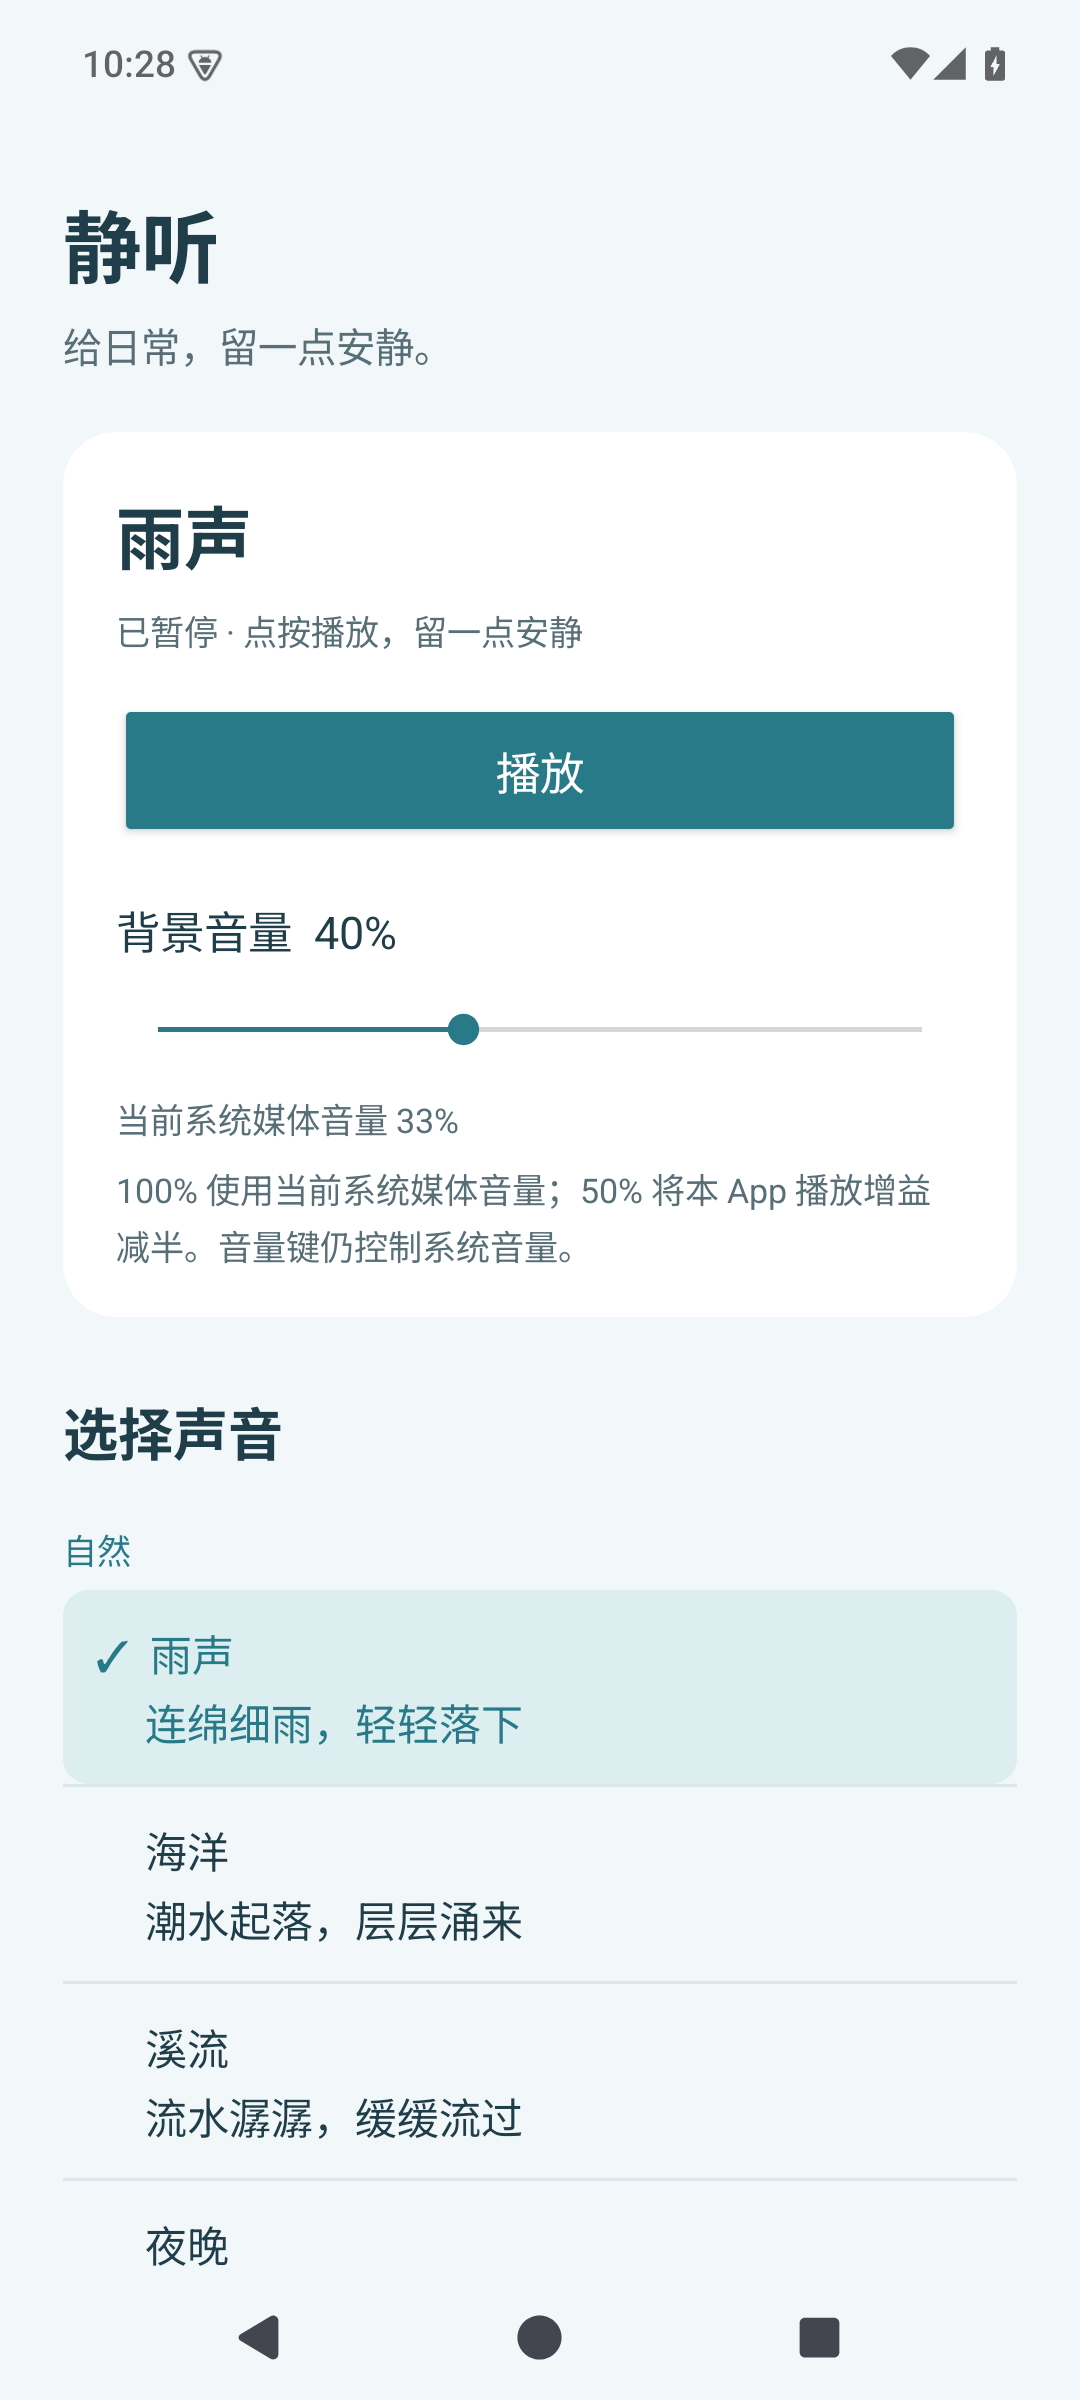
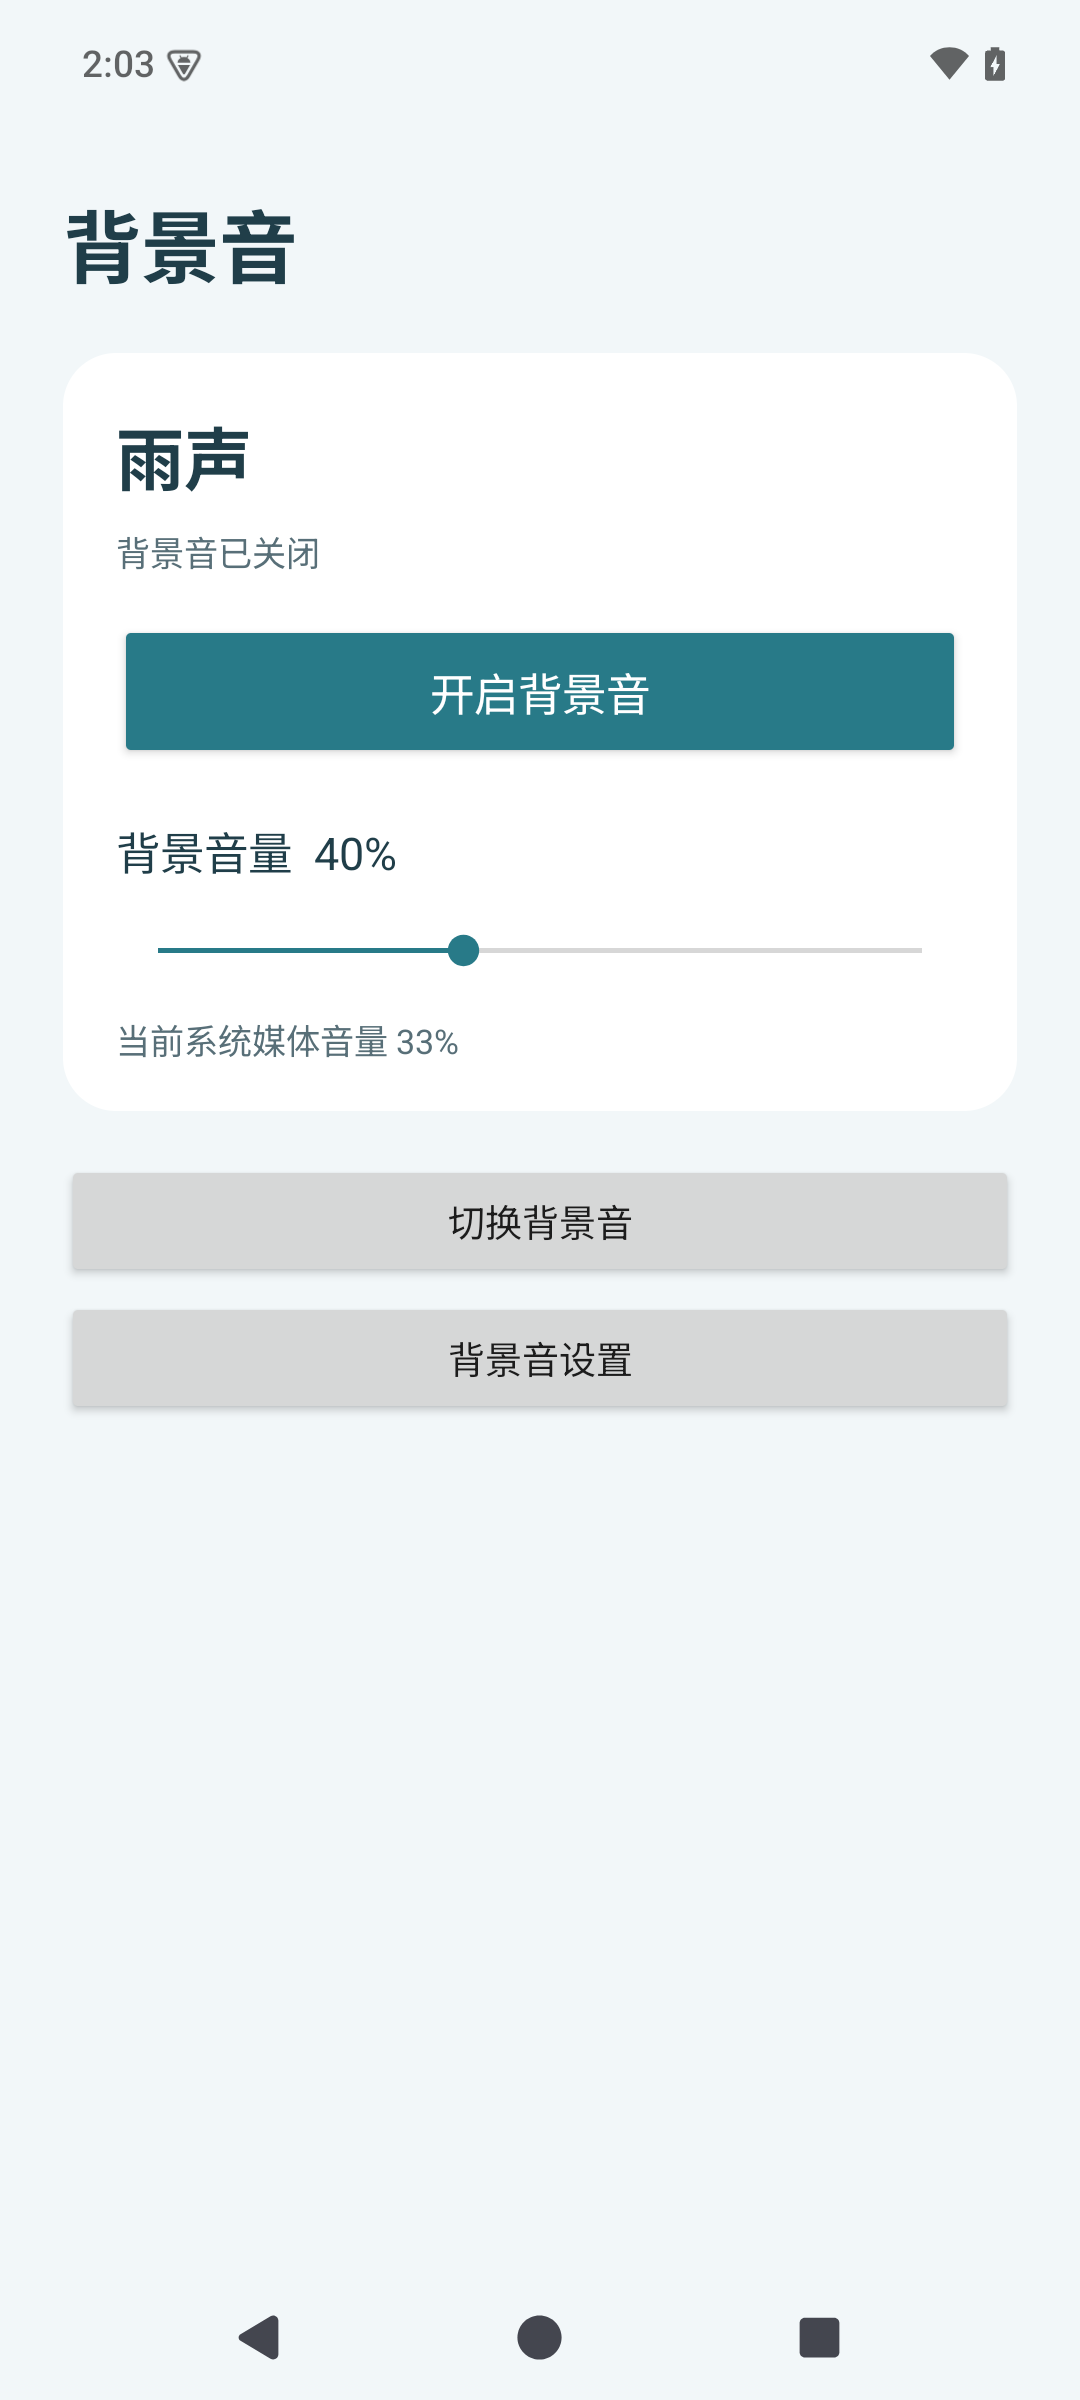
Open a compact background sound panel from launcher and Huawei scenes

diff --git a/app/src/main/java/com/quiet/background/MainActivity.java b/app/src/main/java/com/quiet/background/MainActivity.java
@@ -2,6 +2,7 @@ package com.quiet.background;
 
 import android.Manifest;
 import android.app.Activity;
+import android.app.AlertDialog;
 import android.content.*;
 import android.content.pm.PackageManager;
 import android.content.res.ColorStateList;
@@ -12,8 +13,7 @@ import android.media.AudioManager;
 import android.os.*;
 import android.view.*;
 import android.widget.*;
-import java.util.LinkedHashMap;
-import java.util.Map;
+
 
 public class MainActivity extends Activity {
     private static final int INK = Color.rgb(32,62,73), MUTED = Color.rgb(88,111,120), TEAL = Color.rgb(40,122,136), BG = Color.rgb(242,247,249);
@@ -23,7 +23,7 @@ public class MainActivity extends Activity {
     private TextView current, status, volumeLabel, systemLabel;
     private Button play;
     private SeekBar volume;
-    private final Map<String, TextView> rows = new LinkedHashMap<>();
+    private Button sounds;
     private final Handler handler = new Handler(Looper.getMainLooper());
     private final Runnable refresh = new Runnable() { public void run() { render(); handler.postDelayed(this, 500); } };
     private final ServiceConnection connection = new ServiceConnection() {
@@ -43,8 +43,7 @@ public class MainActivity extends Activity {
         ScrollView scroll = new ScrollView(this); scroll.setFillViewport(true);
         LinearLayout body = new LinearLayout(this); body.setOrientation(LinearLayout.VERTICAL); body.setPadding(dp(24), dp(22), dp(24), dp(24));
         scroll.addView(body); root.addView(scroll); setContentView(root);
-        TextView title = text("静听", 30, INK); title.setTypeface(null, Typeface.BOLD); body.addView(title);
-        TextView subtitle = text("给日常，留一点安静。", 15, MUTED); marginAdd(body, subtitle, 6, 22);
+        TextView title = text("背景音", 30, INK); title.setTypeface(null, Typeface.BOLD); marginAdd(body, title, 0, 20);
         LinearLayout player = new LinearLayout(this); player.setOrientation(LinearLayout.VERTICAL); player.setPadding(dp(20), dp(20), dp(20), dp(18));
         player.setBackground(shape(Color.WHITE, 20)); body.addView(player);
         current = text("雨声", 26, INK); current.setTypeface(null, Typeface.BOLD); player.addView(current);
@@ -53,7 +52,7 @@ public class MainActivity extends Activity {
         play.setBackgroundTintList(ColorStateList.valueOf(TEAL)); play.setMinHeight(dp(54)); player.addView(play, new LinearLayout.LayoutParams(-1, dp(56)));
         play.setOnClickListener(v -> {
             if (service == null) return;
-            if (service.playing()) service.pause();
+            if (service.playing()) service.stopPlayback();
             else {
                 startForegroundService(new Intent(this, PlaybackService.class).setAction(PlaybackService.PLAY));
                 if (Build.VERSION.SDK_INT >= 33 && checkSelfPermission(Manifest.permission.POST_NOTIFICATIONS) != PackageManager.PERMISSION_GRANTED
@@ -75,21 +74,46 @@ public class MainActivity extends Activity {
             @Override public void onStopTrackingTouch(SeekBar bar) {}
         });
         systemLabel = text("", 13, MUTED); player.addView(systemLabel);
-        TextView explanation = text("100% 使用当前系统媒体音量；50% 将本 App 播放增益减半。音量键仍控制系统音量。", 13, MUTED);
-        marginAdd(player, explanation, 8, 0);
-        TextView section = text("选择声音", 21, INK); section.setTypeface(null, Typeface.BOLD); marginAdd(body, section, 28, 0);
-        String group = "";
-        for (SoundCatalog.Sound sound : SoundCatalog.ALL) {
-            if (!group.equals(sound.group())) {
-                group = sound.group(); TextView label = text(group, 13, TEAL); marginAdd(body, label, 20, 6);
-            }
-            TextView row = text("", 16, INK); row.setGravity(Gravity.CENTER_VERTICAL); row.setPadding(dp(12), dp(12), dp(12), dp(12));
-            row.setMinHeight(dp(70)); row.setFocusable(true); row.setClickable(true);
-            row.setOnClickListener(v -> { if (service != null) { service.select(sound.key()); render(); } });
-            rows.put(sound.key(), row); body.addView(row, new LinearLayout.LayoutParams(-1, -2));
-            View line = new View(this); line.setBackgroundColor(Color.rgb(220,231,235)); body.addView(line, new LinearLayout.LayoutParams(-1, dp(1)));
+        sounds = new Button(this);
+        sounds.setText("切换背景音");
+        sounds.setOnClickListener(v -> chooseSound());
+        marginAdd(body, sounds, 18, 4);
+        Button settings = new Button(this);
+        settings.setText("背景音设置");
+        settings.setOnClickListener(v -> showSettings());
+        body.addView(settings);
+    }
+
+    private void chooseSound() {
+        if (service == null) return;
+        String[] names = new String[SoundCatalog.ALL.size()];
+        int selected = 0;
+        for (int i = 0; i < names.length; i++) {
+            SoundCatalog.Sound sound = SoundCatalog.ALL.get(i);
+            names[i] = sound.name();
+            if (sound.key().equals(service.selected())) selected = i;
         }
-        TextView footer = text("全部音源已内置，无需联网。\n播放时可切换应用或锁屏；在通知栏暂停或停止。", 13, MUTED); marginAdd(body, footer, 24, 8);
+        new AlertDialog.Builder(this)
+            .setTitle("切换背景音")
+            .setSingleChoiceItems(names, selected, (dialog, which) -> {
+                if (service != null) service.select(SoundCatalog.ALL.get(which).key());
+                render();
+                dialog.dismiss();
+            })
+            .setNegativeButton("取消", null)
+            .show();
+    }
+
+    private void showSettings() {
+        SharedPreferences preferences = getSharedPreferences("settings", MODE_PRIVATE);
+        new AlertDialog.Builder(this)
+            .setTitle("背景音设置")
+            .setMultiChoiceItems(new String[]{"息屏时关闭背景音"},
+                new boolean[]{preferences.getBoolean(PlaybackService.STOP_ON_SCREEN_OFF, false)},
+                (dialog, which, checked) -> preferences.edit()
+                    .putBoolean(PlaybackService.STOP_ON_SCREEN_OFF, checked).apply())
+            .setPositiveButton("完成", null)
+            .show();
     }
     private void render() {
         AudioManager audio = getSystemService(AudioManager.class);
@@ -101,17 +125,11 @@ public class MainActivity extends Activity {
         String key = service != null ? service.selected() : getSharedPreferences("settings", 0).getString("sound", "Rain");
         current.setText(SoundCatalog.find(key).name());
         if (service != null) {
-            status.setText(service.status()); play.setText(service.playing() ? "暂停" : "播放");
+            status.setText(service.status()); play.setText(service.playing() ? "关闭背景音" : "开启背景音");
             volume.setProgress(service.percent()); volumeLabel.setText("背景音量  " + service.percent() + "%");
         }
         systemLabel.setText("当前系统媒体音量 " + system + "%" + (system == 0 ? " · 系统已静音" : ""));
-        for (SoundCatalog.Sound sound : SoundCatalog.ALL) {
-            TextView row = rows.get(sound.key()); boolean selected = sound.key().equals(key);
-            row.setText((selected ? "✓  " : "     ") + sound.name() + "\n     " + sound.description());
-            row.setBackground(shape(selected ? Color.rgb(220,238,240) : BG, 10));
-            row.setTextColor(selected ? TEAL : INK); row.setSelected(selected);
-            row.setContentDescription(sound.name() + "，" + sound.description() + (selected ? "，已选中" : "，点按选择"));
-        }
+        sounds.setEnabled(service != null);
     }
     @Override protected void onStart() {
         super.onStart(); bound = bindService(new Intent(this, PlaybackService.class), connection, BIND_AUTO_CREATE); handler.post(refresh);

diff --git a/app/src/main/java/com/quiet/background/PlaybackService.java b/app/src/main/java/com/quiet/background/PlaybackService.java
@@ -24,6 +24,15 @@ public class PlaybackService extends Service {
     private int percent;
     private String error = "";
     private boolean foreground;
+    static final String STOP_ON_SCREEN_OFF = "stopOnScreenOff";
+    private final BroadcastReceiver screenOff = new BroadcastReceiver() {
+        @Override public void onReceive(Context context, Intent intent) {
+            if (playing() && getSharedPreferences("settings", MODE_PRIVATE)
+                    .getBoolean(STOP_ON_SCREEN_OFF, false)) {
+                stopPlayback();
+            }
+        }
+    };
     public class LocalBinder extends Binder { public PlaybackService service() { return PlaybackService.this; } }
     @Override public IBinder onBind(Intent intent) { return binder; }
     @Override public void onCreate() {
@@ -46,6 +55,7 @@ public class PlaybackService extends Service {
             @Override public void onStop() { stopPlayback(); }
             @Override public void onCustomAction(String action, Bundle extras) { if (STOP.equals(action)) stopPlayback(); }
         });
+        registerReceiver(screenOff, new IntentFilter(Intent.ACTION_SCREEN_OFF));
         player.addListener(new Player.Listener() {
             @Override public void onEvents(Player p, Player.Events events) { updateState(); }
             @Override public void onPlayerError(PlaybackException e) {
@@ -61,7 +71,7 @@ public class PlaybackService extends Service {
     public String status() {
         if (!error.isEmpty()) return error;
         if (playing() && player.getPlaybackState() == Player.STATE_BUFFERING) return "正在准备音源…";
-        return playing() ? "正在播放 · 可与其他应用共同播放" : "已暂停 · 点按播放，留一点安静";
+        return playing() ? "正在播放 · 可与其他应用共同播放" : "背景音已关闭";
     }
     public void setPercent(int value) {
         percent = Volume.clamp(value);
@@ -104,7 +114,7 @@ public class PlaybackService extends Service {
         }
     }
     public void pause() { player.pause(); updateState(); }
-    private void stopPlayback() {
+    void stopPlayback() {
         player.pause(); player.stop(); player.clearMediaItems();
         session.setActive(false);
         stopForeground(STOP_FOREGROUND_REMOVE); foreground = false;
@@ -156,6 +166,7 @@ public class PlaybackService extends Service {
     }
     // Swiping away the activity deliberately leaves an active foreground playback service running.
     @Override public void onDestroy() {
+        unregisterReceiver(screenOff);
         player.release(); session.release();
         getSystemService(NotificationManager.class).cancel(1);
         super.onDestroy();

diff --git a/scripts/verify_audio.py b/scripts/verify_audio.py
@@ -7,7 +7,7 @@ import sys
 import zipfile
 root = pathlib.Path(__file__).resolve().parent.parent
 manifest = json.loads((root / 'docs/audio-manifest.json').read_text())
-apk = pathlib.Path(sys.argv[1]) if len(sys.argv) > 1 else root / 'dist/静听背景音-v1.0.0-release.apk'
+apk = pathlib.Path(sys.argv[1]) if len(sys.argv) > 1 else root / 'dist/静听背景音-v1.1.0-release.apk'
 with zipfile.ZipFile(apk) as archive:
     names = [n for n in archive.namelist() if n.startswith('assets/audio/') and n.endswith('.m4a')]
     assert len(names) == len(manifest) == 83

diff --git a/README.md b/README.md
@@ -15,7 +15,7 @@
 
 ## 下载
 
-[下载最新正式 APK](https://github.com/Sorin-n/quiet-background-android/releases/latest) · [v1.0.0 发布页](https://github.com/Sorin-n/quiet-background-android/releases/tag/v1.0.0)
+[下载最新正式 APK](https://github.com/Sorin-n/quiet-background-android/releases/latest) · [v1.1.0 发布页](https://github.com/Sorin-n/quiet-background-android/releases/tag/v1.1.0)
 
 APK 约 457 MB，音源全部内置。校验值和安装说明随 Release 一起提供。
 
@@ -23,9 +23,19 @@ APK 约 457 MB，音源全部内置。校验值和安装说明随 Release 一起
 
 ## 安装与使用
 
-将 `dist/静听背景音-v1.0.0-release.apk` 传到 Android 手机，打开 APK 安装。若系统询问，为当前文件管理器开启“允许安装未知应用”。安装后选择声音并点按播放；Android 13 及以上可允许通知以方便控制。
+将 `dist/静听背景音-v1.1.0-release.apk` 传到 Android 手机，打开 APK 安装。若系统询问，为当前文件管理器开启“允许安装未知应用”。安装后选择声音并点按播放；Android 13 及以上可允许通知以方便控制。
 
 这是签名的 Release APK，非调试包。音源全部保留，因此 APK 约 460 MB。首次安装需预留足够存储。应用没有开机自动播放；系统强制停止后需手动打开。部分厂商的省电管理可能中断后台播放，可在该手机的电池设置中允许本 App 后台运行。其他应用自身主动暂停、电话/系统策略强制静音等情况无法由本 App 保证覆盖。
+
+## 在华为控制中心添加「背景音」入口
+
+Mate 40 Pro（HarmonyOS 4.2.0）的智慧生活场景支持「应用服务 → 控制应用 → 打开指定应用」。手机上需先安装静听。
+
+1. 在智慧生活创建手动场景，名称填「背景音」，条件选「手动点击」。
+2. 在「添加任务 → 应用服务 → 控制应用 → 打开指定应用」中选择「静听·背景音」，保存并运行一次。
+3. 从右上角下拉控制中心，打开编辑菜单，在「编辑智能设备」或「编辑智慧场景」（以手机显示为准）中选择该手动场景。能否添加和排序由手机控制中心决定。
+
+华为提示运行「打开指定应用」动作时手机需要亮屏、解锁并联网。卡片用于启动 App，点入后的面板可以开关背景音、调节相对音量、切换声音，或进入「背景音设置」设置息屏时是否关闭声音。默认息屏继续播放。
 
 ## 开发与构建
 
